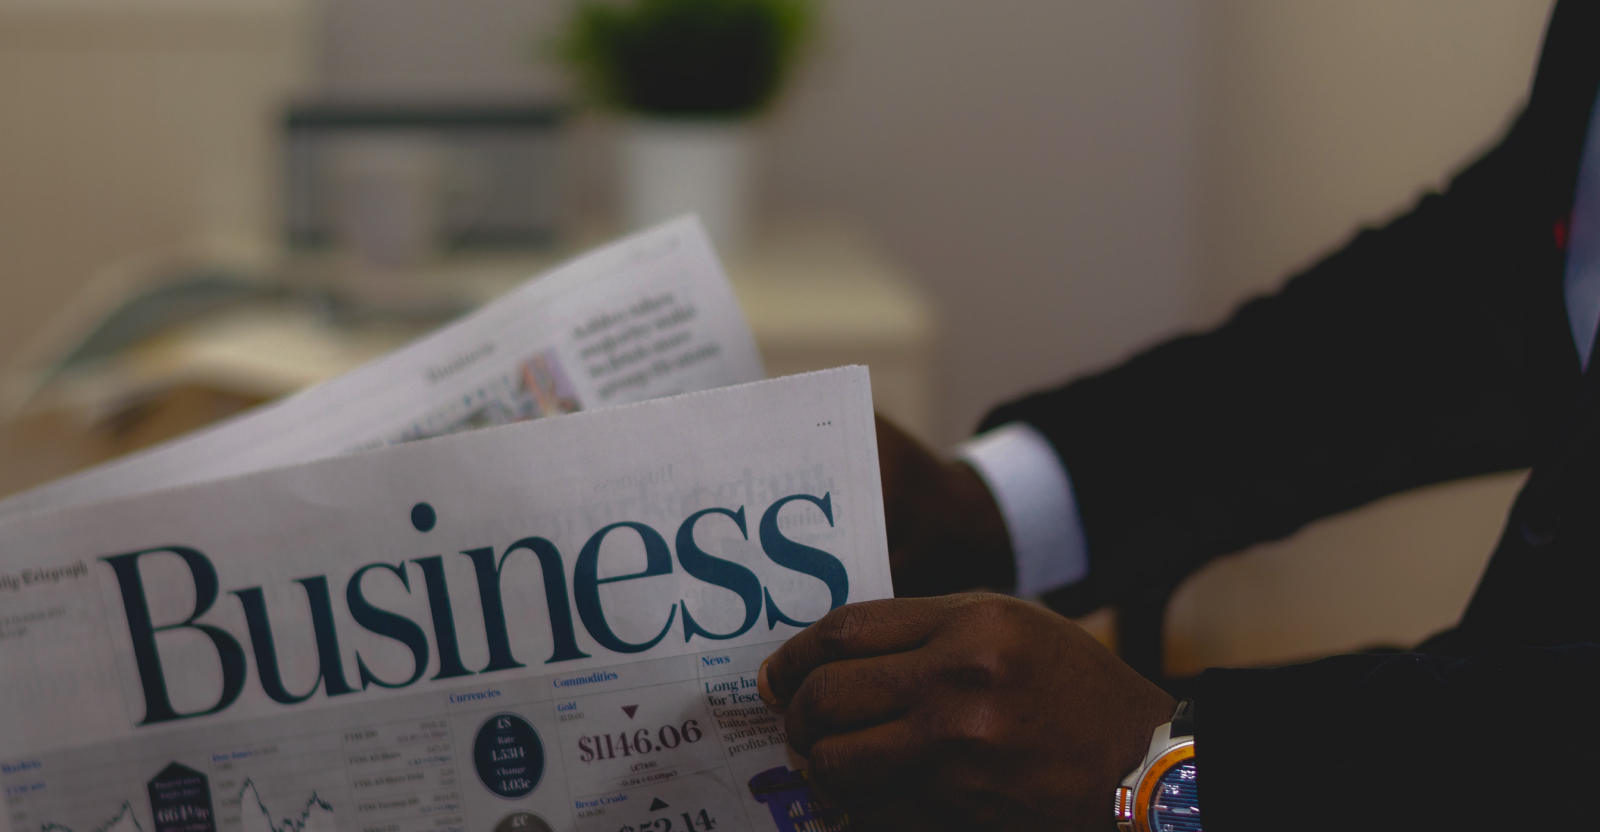
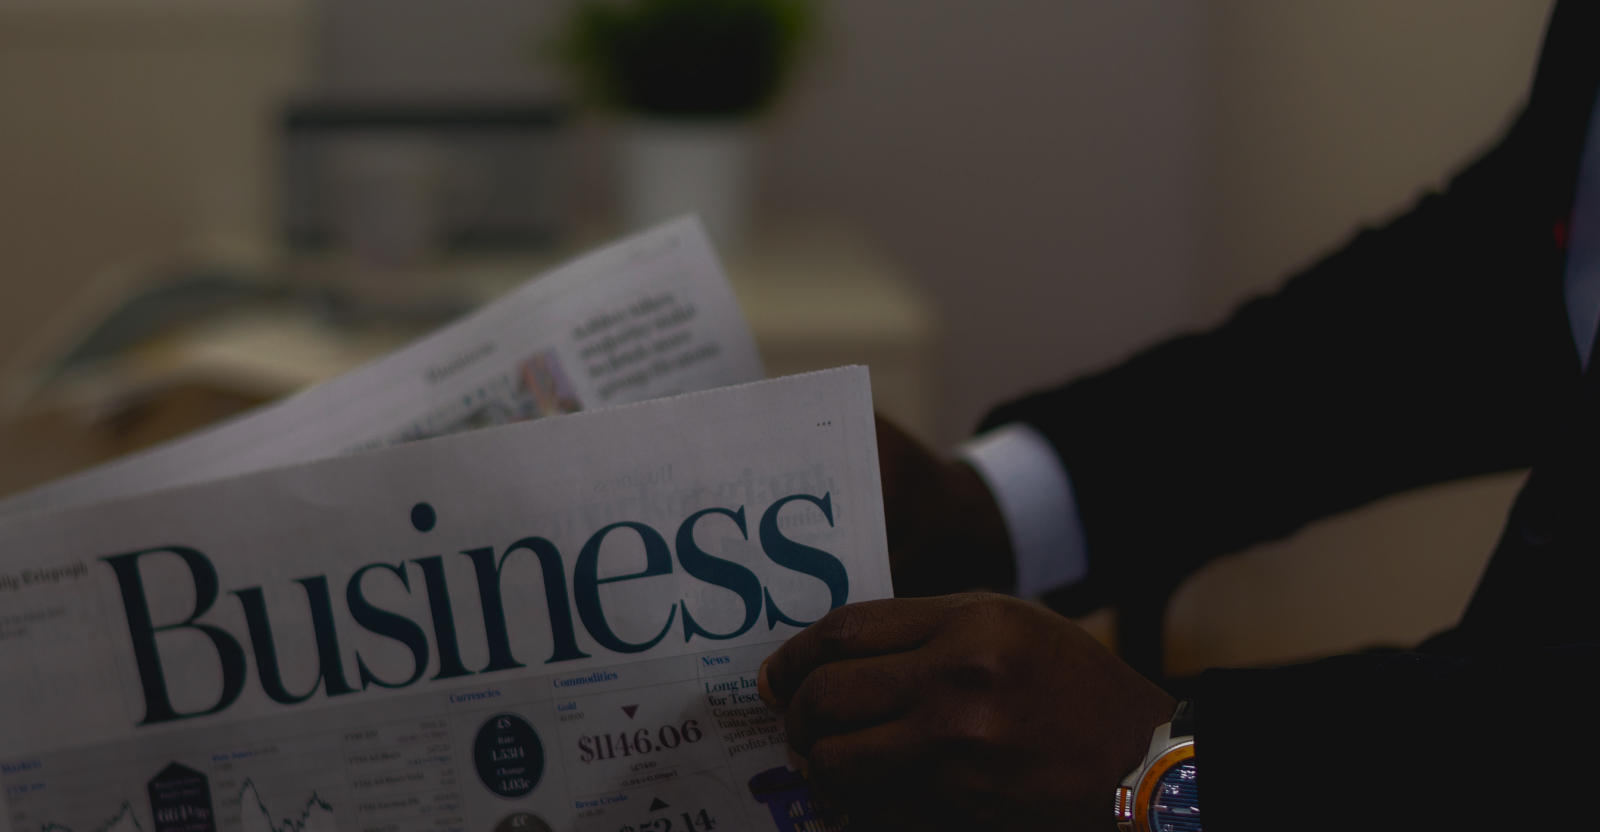
modificacao das imagens em sobre

diff --git a/style/sobre/politicas-content.css b/style/sobre/politicas-content.css
@@ -47,9 +47,10 @@
 }
 
 .politicas-content a {
-  position: absolute;
-  bottom: 0;
+  position: relative;
+  display: inline-block;
   padding: 8px 24px;
+  margin-top: 16px;
   text-transform: uppercase;
   font-weight: 700;
   cursor: pointer;
@@ -67,36 +68,18 @@
 
 @media (max-width: 1000px) {
   .politicas-content h2 {
-    font-size: 1.5rem;
     padding-bottom: 16px;
-  }
-
-  .politicas-content p {
-    font-size: 0.75rem;
-  }
-  .politicas .container {
-    gap: 32px;
   }
 
   .politicas-content a {
     text-transform: uppercase;
-    font-size: 0.625rem;
   }
-}
-
-@media (max-width: 750px) {
   .politicas .container {
     grid-template-columns: 1fr;
     gap: 32px;
     padding: 64px 20px 80px 20px;
   }
 
-  .politicas-content a {
-    position: relative;
-    padding: 8px 24px;
-    font-size: 0.75rem;
-    bottom: -16px;
-  }
   .politicas-content h2 {
     font-size: 2rem;
     padding-bottom: 16px;
@@ -107,8 +90,12 @@
     font-size: 1rem;
   }
   .politicas {
-    background: url("../../img/bg-politica.jpg") no-repeat -600px -400px;
+    background: url("../../img/bg-politica.jpg") no-repeat -0px -310px;
     padding: 0 20px;
+  }
+
+  .politicas.assistencia {
+    background: url("../../img/bg-assistesncia.jpg") no-repeat -0px -110px;
   }
   .politicas .container img {
     display: none;
@@ -125,12 +112,5 @@
   }
   .politicas-content h2::before {
     background: #e4e8ed;
-  }
-}
-
-@media (max-width: 600px) {
-  .politicas .container {
-    grid-template-columns: 1fr;
-    gap: 32px;
   }
 }

diff --git a/pages/sobre.html b/pages/sobre.html
@@ -99,8 +99,10 @@
         </p>
         <p>Lorem ipsum dolor sit amet, consectetur adipiscing elit, sed do eiusmod tempor incididunt ut labore et dolore
           magna aliqua. Ut enim ad minim veniam, quis nostrud exercitation ullamco laboris nisi ut aliquip ex ea commodo
-          consequat.
-        </p>
+          consequat. Lorem ipsum dolor sit amet, consectetur adipiscing elit, sed do eiusmod tempor incididunt ut labore
+          et dolore magna aliqua. Ut enim ad minim veniam, quis nostrud exercitation ullamco laboris nisi ut aliquip ex
+          ea
+          commodo consequat. </p>
         <a href="#">Entre em contato</a>
       </div>
       <img src="../img/politica.jpg" alt="">

diff --git a/style/sobre/sobre.css b/style/sobre/sobre.css
@@ -84,19 +84,7 @@
   background: #112233;
 }
 
-@media (max-width: 769px) {
-  .sobre h2::before {
-    display: none;
-  }
-  .historia-sobre {
-    display: flex;
-    flex-wrap: wrap;
-    gap: 12px;
-  }
-  .sobre {
-    padding: 32px 20px;
-  }
-
+@media (max-width: 1080px) {
   .historia-detalhes {
     gap: 16px;
     display: grid;
@@ -112,6 +100,20 @@
     border-left: none;
     border-top: 1px solid #c3ced9;
     padding: 16px;
+  }
+}
+
+@media (max-width: 769px) {
+  .sobre h2::before {
+    display: none;
+  }
+  .historia-sobre {
+    display: flex;
+    flex-wrap: wrap;
+    gap: 12px;
+  }
+  .sobre {
+    padding: 32px 20px;
   }
 
   .sobre h2 {

diff --git a/style/automacao/infraestrutura.css b/style/automacao/infraestrutura.css
@@ -110,7 +110,4 @@
   .infraestrutura-qualificacoes-ul {
     gap: 32px;
   }
-  .politicas.assistencia {
-    background: url("../../img/bg-assistesncia.jpg") no-repeat -160px -160px;
-  }
 }

diff --git a/style/sobre/bg-sobre.css b/style/sobre/bg-sobre.css
@@ -1,5 +1,5 @@
 .bg-sobre {
-  background: url("../../img/sobre.jpg") no-repeat center center;
+  background: url("../../img/sobre.jpg") no-repeat 0 0px;
 }
 
 @media (max-width: 769px) {
